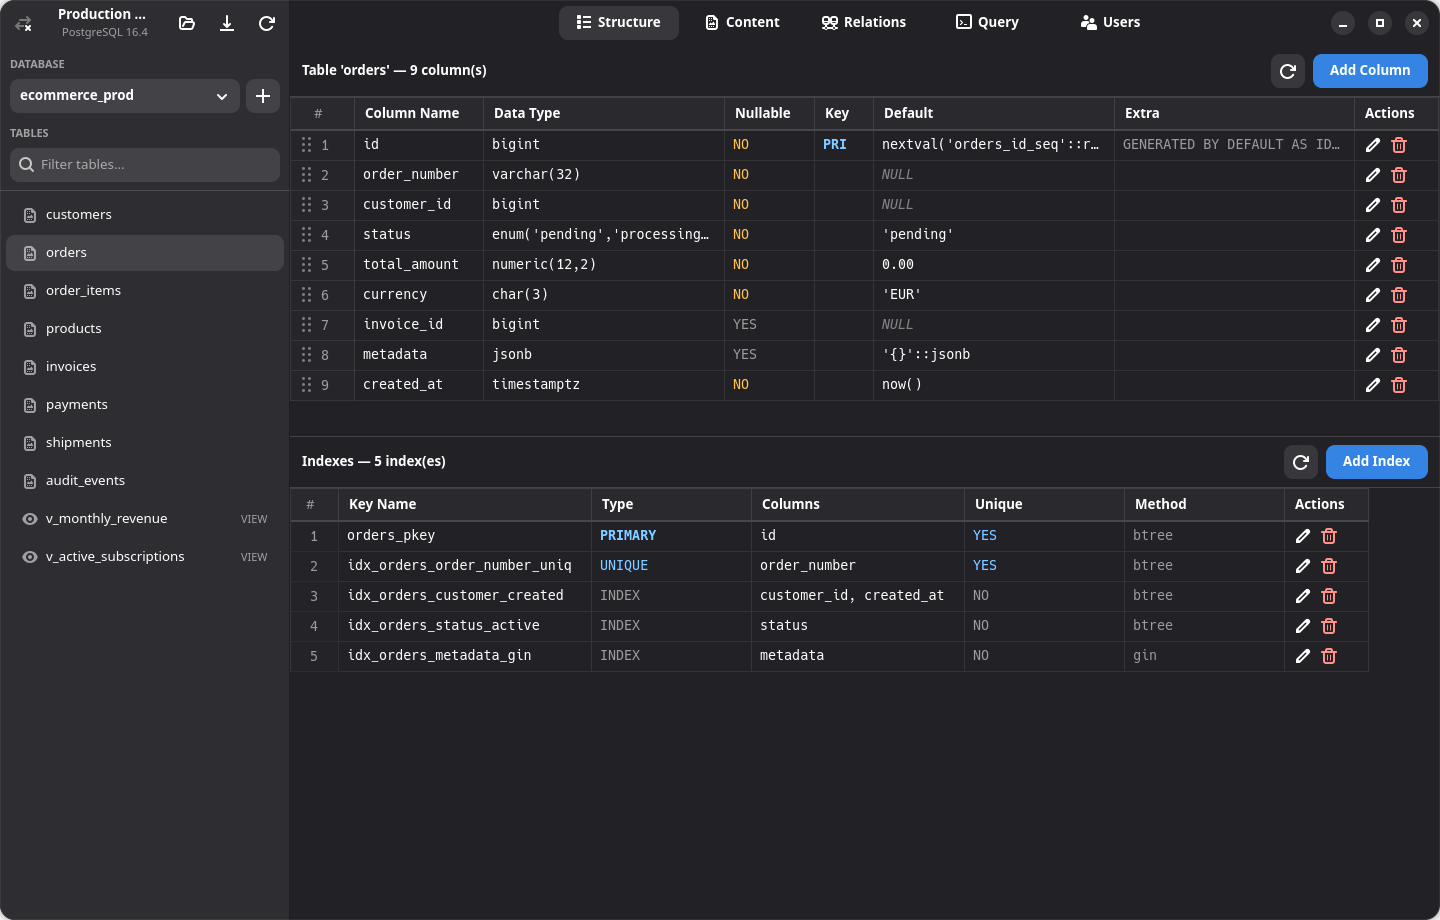
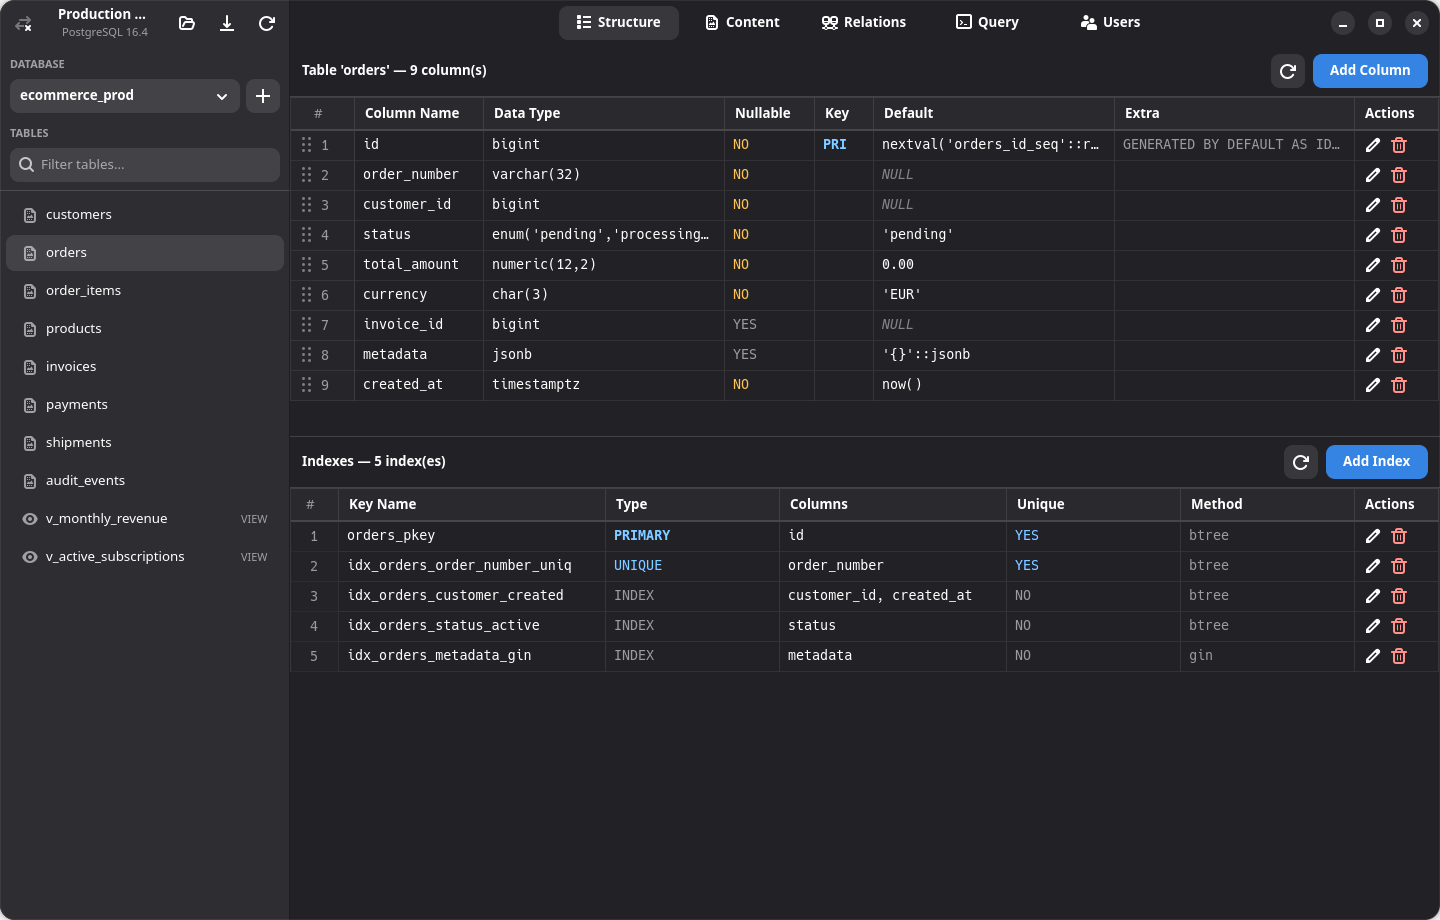
table width fix

diff --git a/src/ui/workspace/mod.rs b/src/ui/workspace/mod.rs
@@ -227,7 +227,25 @@ pub fn compute_auto_column_widths(
             for (idx, &i) in narrow.iter().enumerate() {
                 widths[i] += share + if (idx as i32) < extra { 1 } else { 0 };
             }
+            remaining = 0;
             break;
+        }
+    }
+
+    // Pass 3: If space still remains after all columns have reached at least
+    // max(natural_width, DEFAULT_DATA_COL_WIDTH), distribute the remaining space
+    // evenly across non-manual columns (or all columns if all have manual overrides)
+    // so the table always fills the full width of its surrounding panel.
+    if remaining > 0 && num_cols > 0 {
+        let mut expandable: Vec<usize> = (0..num_cols).filter(|&i| !is_manual[i]).collect();
+        if expandable.is_empty() {
+            expandable = (0..num_cols).collect();
+        }
+        let count = expandable.len() as i32;
+        let share = remaining / count;
+        let extra = remaining % count;
+        for (idx, &i) in expandable.iter().enumerate() {
+            widths[i] += share + if (idx as i32) < extra { 1 } else { 0 };
         }
     }
 
@@ -303,6 +321,8 @@ where
 
     let is_resizing = Rc::new(RefCell::new(false));
     let start_width = Rc::new(RefCell::new(initial_width));
+    let panel_fill_state: Rc<RefCell<(i32, i32, Option<(gtk::Box, i32)>)>> =
+        Rc::new(RefCell::new((0, 0, None)));
 
     let drag = gtk::GestureDrag::new();
     drag.set_propagation_phase(gtk::PropagationPhase::Capture);
@@ -312,6 +332,7 @@ where
         let handle_ref = handle.clone();
         let is_resizing = is_resizing.clone();
         let start_width = start_width.clone();
+        let panel_fill_state = panel_fill_state.clone();
         drag.connect_drag_begin(move |gesture, start_x, _start_y| {
             let alloc_w = cell_box_ref
                 .width()
@@ -320,6 +341,56 @@ where
             if start_x >= (alloc_w - RESIZE_HANDLE_HIT_WIDTH) as f64 {
                 *is_resizing.borrow_mut() = true;
                 *start_width.borrow_mut() = alloc_w;
+
+                let mut vp_w = 0;
+                let mut rest_w = 0;
+                let mut filler: Option<(gtk::Box, i32)> = None;
+                if let Some(grid) = cell_box_ref
+                    .parent()
+                    .and_then(|p| p.downcast::<gtk::Grid>().ok())
+                {
+                    if let Some(vp) = grid.parent() {
+                        vp_w = (vp.width() - 2).max(0);
+                    }
+                    let mut row0_cells: Vec<gtk::Box> = Vec::new();
+                    let mut c = 0;
+                    while let Some(w) = grid.child_at(c, 0) {
+                        if let Ok(b) = w.downcast::<gtk::Box>() {
+                            row0_cells.push(b);
+                        }
+                        c += 1;
+                    }
+                    if let Some(this_idx) = row0_cells.iter().position(|b| b == &cell_box_ref) {
+                        let filler_idx = ((this_idx + 1)..row0_cells.len())
+                            .rev()
+                            .find(|&i| {
+                                row0_cells[i]
+                                    .first_child()
+                                    .and_then(|ch| ch.downcast::<gtk::Label>().ok())
+                                    .is_none_or(|lbl| lbl.text() != "Actions")
+                            })
+                            .or_else(|| {
+                                if this_idx + 1 < row0_cells.len() {
+                                    Some(row0_cells.len() - 1)
+                                } else {
+                                    None
+                                }
+                            });
+                        for (i, b) in row0_cells.iter().enumerate() {
+                            if i == this_idx {
+                                continue;
+                            }
+                            let bw = b.width().max(b.width_request()).max(MIN_COLUMN_WIDTH);
+                            if Some(i) == filler_idx {
+                                filler = Some((b.clone(), bw));
+                            } else {
+                                rest_w += bw;
+                            }
+                        }
+                    }
+                }
+                *panel_fill_state.borrow_mut() = (vp_w, rest_w, filler);
+
                 handle_ref.add_css_class("resizing");
                 gesture.set_state(gtk::EventSequenceState::Claimed);
             } else {
@@ -333,9 +404,18 @@ where
         let cell_box_ref = cell_box.clone();
         let is_resizing = is_resizing.clone();
         let start_width = start_width.clone();
+        let panel_fill_state = panel_fill_state.clone();
         drag.connect_drag_update(move |_, offset_x, _offset_y| {
             if *is_resizing.borrow() {
-                let new_w = (*start_width.borrow() + offset_x.round() as i32).max(MIN_COLUMN_WIDTH);
+                let (vp_w, rest_w, ref filler) = *panel_fill_state.borrow();
+                let mut new_w =
+                    (*start_width.borrow() + offset_x.round() as i32).max(MIN_COLUMN_WIDTH);
+                if let Some((ref filler_box, filler_start_w)) = *filler {
+                    let target_filler_w = (vp_w - rest_w - new_w).max(filler_start_w);
+                    filler_box.set_width_request(target_filler_w);
+                } else if vp_w > 0 {
+                    new_w = new_w.max(vp_w - rest_w);
+                }
                 cell_box_ref.set_width_request(new_w);
                 on_resize(new_w);
             }

diff --git a/src/ui/workspace/content_tab.rs b/src/ui/workspace/content_tab.rs
@@ -2579,9 +2579,11 @@ mod tests {
         let natural = vec![80, 220, 340];
         let manual = vec![None, None, None];
         let widths = compute_auto_column_widths(&natural, &manual, 900);
-        // Plenty of width: wide columns expand to their full natural widths (220, 340)
-        // and the narrow column expands back to DEFAULT_DATA_COL_WIDTH (160).
-        assert_eq!(widths, vec![160, 220, 340]);
+        // Plenty of width: wide columns expand to their full natural widths (220, 340),
+        // the narrow column expands to DEFAULT_DATA_COL_WIDTH (160), and the remaining
+        // 180px is distributed evenly (+60px each) so the table fills all 900px.
+        assert_eq!(widths, vec![220, 280, 400]);
+        assert_eq!(widths.iter().sum::<i32>(), 900);
     }
 
     #[test]
@@ -2603,8 +2605,18 @@ mod tests {
         let natural = vec![80, 300, 400];
         let manual = vec![None, Some(120), None];
         let widths = compute_auto_column_widths(&natural, &manual, 700);
-        assert_eq!(widths[1], 120);
-        assert_eq!(widths[2], 400);
+        assert_eq!(widths, vec![170, 120, 410]);
+        assert_eq!(widths.iter().sum::<i32>(), 700);
+    }
+
+    #[test]
+    fn test_columns_always_fill_surrounding_panel_width() {
+        // Indexes-style table: 5 auto data columns + 1 fixed Actions column (84px) in a 1100px panel
+        let natural = vec![246, 92, 202, 86, 86, 84];
+        let manual = vec![None, None, None, None, None, Some(84)];
+        let widths = compute_auto_column_widths(&natural, &manual, 1100);
+        assert_eq!(widths[5], 84);
+        assert_eq!(widths.iter().sum::<i32>(), 1100);
     }
 
     #[test]

diff --git a/src/ui/workspace/users_tab.rs b/src/ui/workspace/users_tab.rs
@@ -1710,6 +1710,22 @@ mod tests {
                     assert_eq!(hdr_bounds.width(), cell_bounds.width());
                 }
             }
+            let users_scroll_w = workspace_content.users_tab.scroll.width();
+            assert!(
+                grid.width() >= users_scroll_w - 2,
+                "users grid width ({}) should fill its surrounding panel width ({})",
+                grid.width(),
+                users_scroll_w
+            );
+
+            let perm_grid = &workspace_content.users_tab.perm_grid;
+            let perm_scroll_w = workspace_content.users_tab.perm_scroll.width();
+            assert!(
+                perm_grid.width() >= perm_scroll_w - 2,
+                "permissions grid width ({}) should fill its surrounding panel width ({})",
+                perm_grid.width(),
+                perm_scroll_w
+            );
 
             // Verify UsersTab preserves vertical scroll position when selecting a user row
             let many_users: Vec<DbUser> = (0..25)

diff --git a/src/ui/workspace/structure_tab.rs b/src/ui/workspace/structure_tab.rs
@@ -3519,6 +3519,21 @@ mod tests {
                 assert_eq!(hdr_bounds.width(), cell_bounds.width());
             }
 
+            let scroll_w = workspace_content.structure_tab.scroll.width();
+            let idx_scroll_w = workspace_content.structure_tab.idx_scroll.width();
+            assert!(
+                (grid.width() - scroll_w).abs() <= 2,
+                "Structure columns grid width ({}) should fill its panel width ({})",
+                grid.width(),
+                scroll_w
+            );
+            assert!(
+                (idx_grid.width() - idx_scroll_w).abs() <= 2,
+                "Structure indexes grid width ({}) should fill its panel width ({})",
+                idx_grid.width(),
+                idx_scroll_w
+            );
+
             win.close();
             while ctx.iteration(false) {}
         });

diff --git a/src/ui/workspace/relations_tab.rs b/src/ui/workspace/relations_tab.rs
@@ -733,6 +733,14 @@ mod tests {
                 }
             }
 
+            let scroll_w = workspace_content.relations_tab.scroll.width();
+            assert!(
+                (grid.width() - scroll_w).abs() <= 2,
+                "Relations grid width ({}) should fill its panel width ({})",
+                grid.width(),
+                scroll_w
+            );
+
             win.close();
             while ctx.iteration(false) {}
         });
